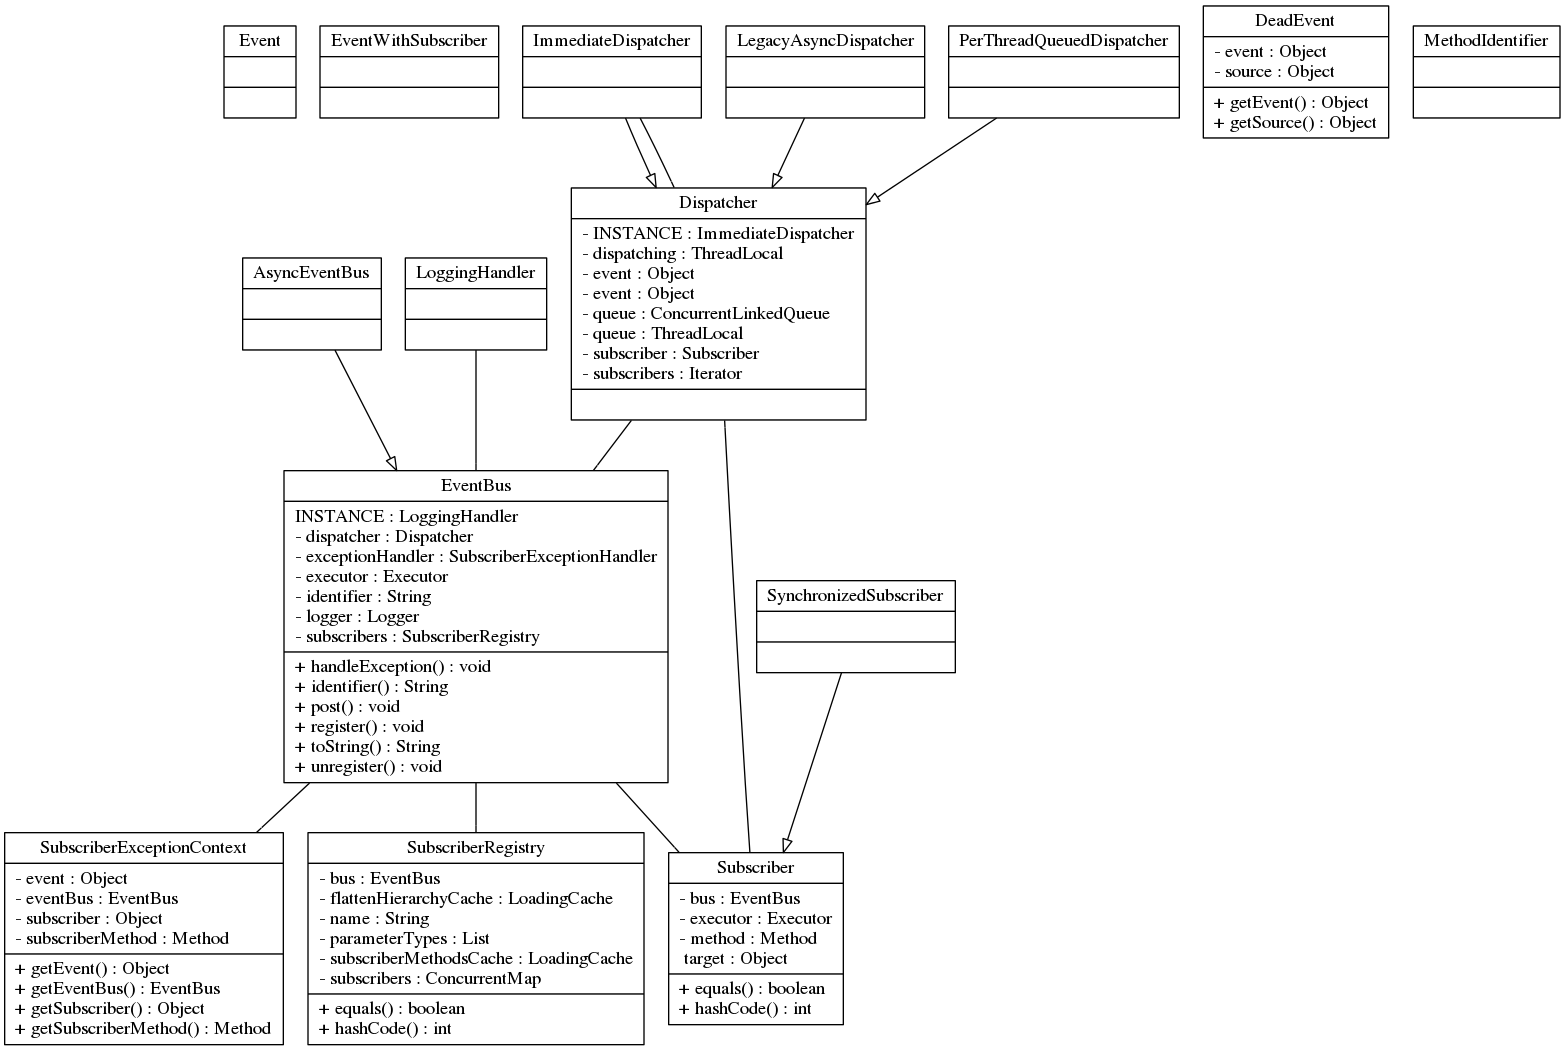
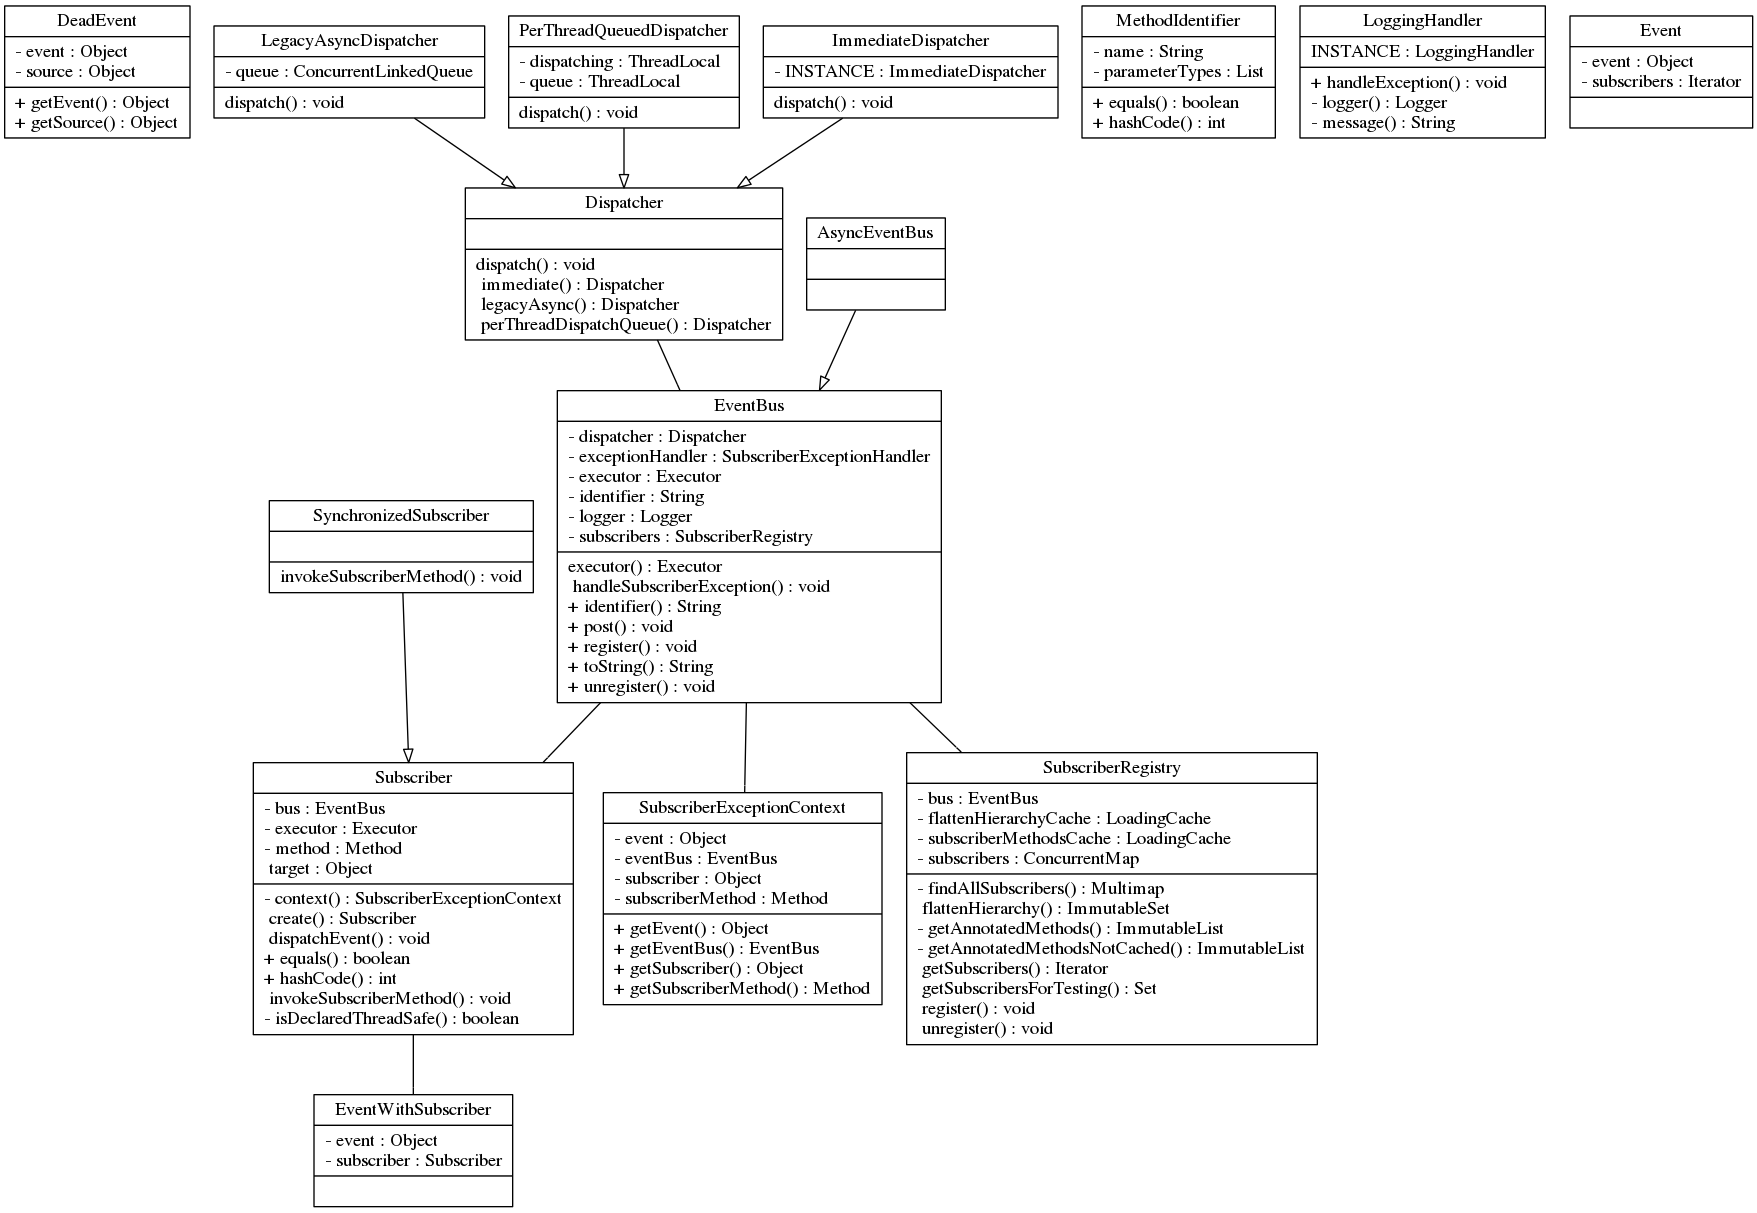
Fixed class names in the format of aaa.bbb.ccc

Changed region(s): [[0.0, 0.0, 1.0, 1.0]]

diff --git a/tagsparser.go b/tagsparser.go
@@ -65,15 +65,21 @@ if err != nil {
 scanner := bufio.NewScanner(file)
 re := regexp.MustCompile(`^([A-Za-z0-9_]+)\t([^\t]+)\t([^\t]+)\t([A-Za-z]+)`)
 rea := regexp.MustCompile(`access:([A-Za-z0-9_]+)`)
-rec := regexp.MustCompile(`class:([A-Za-z0-9_]+)`)
-rel := regexp.MustCompile(`language:([A-Za-z0-9_]+)`)
+rec := regexp.MustCompile(`class:([A-Za-z0-9_\.]+)`)
+rel := regexp.MustCompile(`language:([A-Za-z0-9_\#]+)`)
 ret := regexp.MustCompile(`\/\^([ ]*)([A-Za-z0-9_\.]+)([^A-Za-z0-9_]+)(.*)\$\/`)
 for scanner.Scan() {
     match := re.FindStringSubmatch(scanner.Text())
     if (len(match) == 0) {continue}
     matchc := rec.FindStringSubmatch(scanner.Text())
     ci := classinfo_st{}
-    if (len(matchc) != 0) {ci = classmap[matchc[1]]}
+    var cn string
+    if (len(matchc) != 0) {cn = matchc[1]}
+    cnsep := strings.LastIndex(cn, ".")
+    if (cnsep != -1) {
+        cn = cn[cnsep+1:]
+    }
+    if (len(cn) != 0) {ci = classmap[cn]}
     if (len(ci.name) == 0) {continue}
     matcha := rea.FindStringSubmatch(scanner.Text())
     matchl := rel.FindStringSubmatch(scanner.Text())
@@ -124,6 +130,10 @@ func remove_keywords(txt string) string {
     str1 = strings.Replace(str1, "struct", "", 1)
     str1 = strings.Replace(str1, "union", "", 1)
     str1 = strings.Replace(str1, "enum", "", 1)
+    str1 = strings.Replace(str1, "override", "", 1)
+    str1 = strings.Replace(str1, "internal", "", 1)
+    str1 = strings.Replace(str1, "extern", "", 1)
+    str1 = strings.Replace(str1, "readonly", "", 1)
     str1 = strings.Replace(str1, "*", "", -1)
     str1 = strings.Replace(str1, ":", "", -1)
     return str1

diff --git a/README.md b/README.md
@@ -12,7 +12,7 @@ The output file is a Graphviz [DOT file](http://www.graphviz.org/content/dot-lan
 
 Currently, we only have this in source code. Binaries are not yet distributed. This program is written in [Go](http://golang.org/).
 
-Currently, it has been tested on Linux and Windows 7. It has been tested on C++, Java and Python source code. Work in progress. But it should theoritically work on other object oriented languages supported by ctags and on other platforms supported by [Go](http://golang.org/).
+Currently, it has been tested on Linux and Windows 7. It has been tested on C++, Java, Python and C# source code. Work in progress. But it should theoritically work on other object oriented languages supported by ctags and on other platforms supported by [Go](http://golang.org/).
 
 
 ## Features
@@ -32,7 +32,7 @@ Currently, it has been tested on Linux and Windows 7. It has been tested on C++,
 The DOT file for this was generated using these options:    
 `tags2uml --members=1 --infile tags --outfile guava-eventbus.dot`.
 
-This is a whitebox UML class diagram of the [Google Guava EventBus](https://code.google.com/p/guava-libraries/wiki/EventBusExplained), which is set to show all members and only public methods. This was the [input tags file](doc/tags) that was used and this was the [output DOT file](doc/guava-eventbus.dot) that was generated using tags2uml.
+This is a whitebox UML class diagram of the [Google Guava EventBus](https://code.google.com/p/guava-libraries/wiki/EventBusExplained), which is set to show all members and methods as well as have inheritance and relationship enabled. This was the [input tags file](doc/tags) that was used and this was the [output DOT file](doc/guava-eventbus.dot) that was generated using tags2uml.
 
 ![screenshot](doc/guava-eventbus.png)
 
